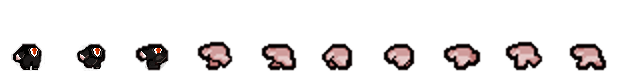
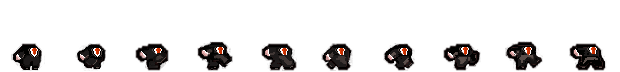
done with body graphics and character select (#49)
* done with body graphics and character select

* add left move animation

* add blondi head sites

diff --git a/core/src/com/my/game/screens/MenuScreen.java b/core/src/com/my/game/screens/MenuScreen.java
@@ -1,5 +1,6 @@
 package com.my.game.screens;
 
+import com.badlogic.gdx.scenes.scene2d.ui.SelectBox;
 import com.my.game.WBGame;
 import com.badlogic.gdx.Gdx;
 import com.badlogic.gdx.scenes.scene2d.Actor;
@@ -54,6 +55,8 @@ public class MenuScreen extends AbstractScreen{
         TextButton preferences = new TextButton("Preferences", skin);
         TextButton exit = new TextButton("Exit", skin);
         TextButton resume = new TextButton("Resume", skin);
+        SelectBox selectCharacter = new SelectBox(skin);
+        selectCharacter.setItems("Ground", "Water");
 
         //add buttons to table
         if(inGame){
@@ -64,6 +67,8 @@ public class MenuScreen extends AbstractScreen{
             table.add(newRoom).fillX().uniformX();
             table.row().pad(10, 0, 0, 0);
             table.add(joinRoom).fillX().uniformX();
+            table.row().pad(10, 0, 0, 0);
+            table.add(selectCharacter).fillX().uniformX();
             table.row().pad(10, 0, 0, 0);
         }
         table.add(preferences).fillX().uniformX();
@@ -84,14 +89,16 @@ public class MenuScreen extends AbstractScreen{
             public void changed(ChangeEvent event, Actor actor) {
                 WBGame.getConnection().getTcp().sendMessage(new JSONObject()
                         .put("msg", "newRoom")
-                        .put("content", new JSONObject().put("port", WBGame.getConnection().getSocket().getLocalPort())));
+                        .put("content", new JSONObject().put("port", WBGame.getConnection().getSocket().getLocalPort()))
+                        .put("character", selectCharacter.getSelected().toString()));
+
             }
         });
 
         joinRoom.addListener(new ChangeListener() {
             @Override
             public void changed(ChangeEvent event, Actor actor) {
-                new JoinRoomDialog(skin, stage);
+                new JoinRoomDialog(skin, stage, selectCharacter.getSelected().toString());
             }
         });
 

diff --git a/core/src/com/my/game/MyAssetManager.java b/core/src/com/my/game/MyAssetManager.java
@@ -34,7 +34,7 @@ public class MyAssetManager {
 
     //playerTexture
     public static final String DOWN_WALK = "characters/downIsaacHeadless2.png";
-    public static final String LEFT_WALK = "characters/leftWalkIsaacHeadless.png";
+    public static final String LEFT_WALK = "characters/leftWalkIsaacHeadless2.png";
     public static final String RIGHT_WALK = "characters/rightWalkIsaacHeadless2.png";
     public static final String UP_WALK = "characters/upIsaacHeadless2.png";
     public static final String PROF_HEADS = "characters/prof.png";
@@ -128,7 +128,7 @@ public class MyAssetManager {
         Player.downWalkAnimation = getAnimationFrom1DPicture(manager.get(DOWN_WALK), PLAYER_TEXTURE_WIDTH*2, PLAYER_TEXTURE_HEIGHT*2, NUMBER_OF_PLAYER_ANIMATION_FRAMES);
         Player.upWalkAnimation = getAnimationFrom1DPicture(manager.get(UP_WALK), PLAYER_TEXTURE_WIDTH*2, PLAYER_TEXTURE_HEIGHT*2, NUMBER_OF_PLAYER_ANIMATION_FRAMES);
         Player.rightWalkAnimation = getAnimationFrom1DPicture(manager.get(RIGHT_WALK), PLAYER_TEXTURE_WIDTH*2, PLAYER_TEXTURE_HEIGHT*2, 10);
-        Player.leftWalkAnimation = getAnimationFrom1DPicture(manager.get(LEFT_WALK), PLAYER_TEXTURE_WIDTH, PLAYER_TEXTURE_HEIGHT, 10);
+        Player.leftWalkAnimation = getAnimationFrom1DPicture(manager.get(LEFT_WALK), PLAYER_TEXTURE_WIDTH*2, PLAYER_TEXTURE_HEIGHT*2, 10);
         FireRing.fireRingAnimation = getAnimationFrom1DPicture(manager.get(FIRE_RING_TEXTURE), 64, 64, 10);
         Ground.heads = getAnimationFrom1DPicture(manager.get(PROF_HEADS), PLAYER_TEXTURE_WIDTH, PLAYER_TEXTURE_HEIGHT, 4);
         Water.heads = getAnimationFrom1DPicture(manager.get(BLOND_HEADS), PLAYER_TEXTURE_WIDTH, PLAYER_TEXTURE_HEIGHT, 4);

diff --git a/server/src/main/java/server/rooms/RoomController.java b/server/src/main/java/server/rooms/RoomController.java
@@ -83,7 +83,7 @@ public class RoomController {
 
         JSONObject content = new JSONObject().put("owner", user.getName())
                 .put("opponents", currentRoom.getGameController().getOpponentsData())
-                .put("players", currentRoom.getGameController().getPlayersData());
+                .put("players", currentRoom.getGameController().getPlayersInitialData());
 
         JSONObject msg = new JSONObject()
                 .put("msg", "startGame");
@@ -91,7 +91,7 @@ public class RoomController {
 
         for(User currentUser : currentRoom.getUsersInRoom()){
             content.put("current",currentUser.getName());
-            content.put("playerType", currentUser.getPlayer().getPlayerType());
+            content.put("playerType", currentUser.getCharacterType());
             msg.put("content", content);
             currentUser.getThread().sendMessage(msg);
         }
@@ -103,9 +103,9 @@ public class RoomController {
     //TODO: przejściowa wersja, do ogarnięcia
     public void initGame(Room room){
         //TODO Here server must know what character user is
-        String USER_TYPE = "Ground";
+        String USER_TYPE = "Water";
         for(User user : room.getUsersInRoom()){
-            user.initializePlayer(room.getGameController(), USER_TYPE);
+            user.initializePlayer(room.getGameController(), user.getCharacterType());
         }
         room.getGameController().setPlayersPosition();
         room.getGameController().spawnAllOpponents();

diff --git a/core/src/com/my/game/screens/dialogs/JoinRoomDialog.java b/core/src/com/my/game/screens/dialogs/JoinRoomDialog.java
@@ -11,10 +11,11 @@ import org.json.JSONObject;
 public class JoinRoomDialog extends Dialog {
     private Skin skin;
     private Stage stage;
+    private String character;
 
-    public JoinRoomDialog(Skin skin, Stage stage){
+    public JoinRoomDialog(Skin skin, Stage stage, String character){
         super("Join Room", skin);
-
+        this.character = character;
         this.skin = skin;
         this.stage = stage;
 
@@ -41,8 +42,9 @@ public class JoinRoomDialog extends Dialog {
             id = Integer.parseInt(newTf.getText());
             WBGame.getConnection().getTcp().sendMessage(new JSONObject()
                     .put("msg", "joinRoom")
-                    .put("content", new JSONObject().put("id", id)
-                    ));
+                    .put("content", new JSONObject().put("id", id))
+                    .put("character", this.character)
+                    );
 
 
         } catch (NumberFormatException e) {

diff --git a/server/src/main/java/server/connection/TcpClientThread.java b/server/src/main/java/server/connection/TcpClientThread.java
@@ -70,8 +70,14 @@ public class TcpClientThread extends Thread{
 
         switch (json.getString("msg")){
             case "udpPort": newUser(contentJSON.getInt("port")); break;
-            case "newRoom": this.roomController.newRoom(this.user); break;
-            case "joinRoom": this.roomController.joinRoom(this.user, contentJSON.getInt("id")); break;
+            case "newRoom":
+                this.user.setCharacterType(json.get("character").toString());
+                this.roomController.newRoom(this.user);
+                break;
+            case "joinRoom":
+                this.user.setCharacterType(json.get("character").toString());
+                this.roomController.joinRoom(this.user, contentJSON.getInt("id"));
+                break;
             case "leaveRoom":  this.roomController.leaveRoom(this.user); break;
             case "startGame": this.roomController.startGame(this.user); break;
             default:

diff --git a/server/src/main/java/server/User.java b/server/src/main/java/server/User.java
@@ -15,17 +15,8 @@ public class User {
     private boolean connection;
     private Player player;
     private String name;
+    private String characterType;
     private TcpClientThread thread;
-
-    public User(InetAddress userAddress, Integer userTcpPort, Integer userUdpPort, String connectionId, String name){
-        this.userAddress = userAddress;
-        this.userTcpPort = userTcpPort;
-        this.userUdpPort = userUdpPort;
-        this.connectionId = connectionId;
-        this.name = name;
-        this.player = new Player(this);
-        this.connection = true;
-    }
 
     public User(){
         this.player = new Player(this);
@@ -100,4 +91,11 @@ public class User {
         this.thread = thread;
     }
 
+    public String getCharacterType() {
+        return characterType;
+    }
+
+    public void setCharacterType(String characterType) {
+        this.characterType = characterType;
+    }
 }

diff --git a/core/src/com/my/game/connection/TCPConnection.java b/core/src/com/my/game/connection/TCPConnection.java
@@ -136,7 +136,7 @@ public class TCPConnection implements Runnable {
         JSONArray playersJSON = contentJSON.getJSONArray("players");
         for (int i = 0; i < playersJSON.length(); i++) {
             JSONObject player = playersJSON.getJSONObject(i);
-            Player newPlayer = PlayerFactory.createPlayer(contentJSON.getString("playerType"), player.getString("name"));
+            Player newPlayer = PlayerFactory.createPlayer(player.getString("playerType"), player.getString("name"));
             if (player.getString("name").equals(contentJSON.getString("current"))) {
                 newPlayer.setCurrentPlayer(true);
                 GameplayScreen.currentPlayer = newPlayer;

diff --git a/server/src/main/java/server/connection/GameController.java b/server/src/main/java/server/connection/GameController.java
@@ -184,6 +184,19 @@ public class GameController implements Runnable {
 
         return playersList;
     }
+    public JSONArray getPlayersInitialData(){
+        JSONArray playersList = new JSONArray();
+
+        for (User user : usersInRoom) {
+            JSONObject playerData = new JSONObject()
+                    .put("name", user.getName())
+                    .put("playerType", user.getPlayer().getPlayerType());
+
+            playersList.put(playerData);
+        }
+
+        return playersList;
+    }
 
     public void setPlayersPosition() {
         for (User user : room.getUsersInRoom()) {
